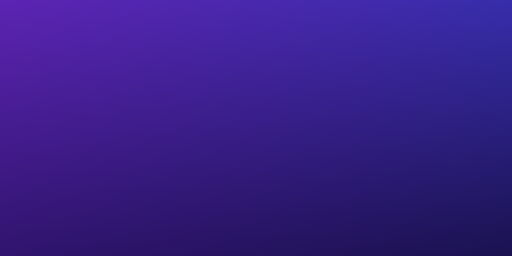
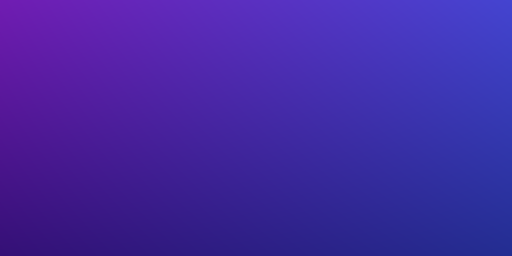
style(home): match exact gradient palette and light mode aesthetic from reference screenshot

diff --git a/mobile/src/screens/home/HomeScreen.tsx b/mobile/src/screens/home/HomeScreen.tsx
@@ -155,15 +155,18 @@ const FeedItemCard = React.memo<FeedCardProps>(
           </Text>
 
           <View style={styles.actionsRow}>
-            <GradientButton
-              title="Read Summary"
+            <TouchableOpacity
+              style={styles.readButtonLavender}
               onPress={() => onReadSummary(item.videoId, item.title)}
-              style={styles.readButton}
-            />
-
-            <TouchableOpacity style={styles.watchButton} onPress={() => onWatchVideo(item.videoUrl)}>
-              <Text style={styles.watchButtonText}>Watch ↗</Text>
+              activeOpacity={0.8}>
+              <Text style={styles.readButtonTextLavender}>Read Summary</Text>
             </TouchableOpacity>
+
+            <GradientButton
+              title="Watch"
+              onPress={() => onWatchVideo(item.videoUrl)}
+              style={styles.watchGradientBtn}
+            />
 
             {isCompletedView ? (
               <TouchableOpacity
@@ -438,6 +441,11 @@ export const HomeScreen: React.FC<any> = ({ navigation }) => {
             style={styles.headerSummarizeBtn}
             onPress={() => setShowImportModal(true)}
             activeOpacity={0.85}>
+            <Image
+              source={require('../../assets/images/button_gradient.png')}
+              style={StyleSheet.absoluteFill}
+              resizeMode="cover"
+            />
             <Text style={styles.headerSparkleIcon}>✦</Text>
             <Text style={styles.headerSummarizeBtnText}>Summarize</Text>
           </TouchableOpacity>
@@ -454,8 +462,15 @@ export const HomeScreen: React.FC<any> = ({ navigation }) => {
             style={[styles.filterTab, activeTab === 'all' && styles.filterTabActive]}
             onPress={() => setActiveTab('all')}
             activeOpacity={0.75}>
+            {activeTab === 'all' && (
+              <Image
+                source={require('../../assets/images/button_gradient.png')}
+                style={StyleSheet.absoluteFill}
+                resizeMode="cover"
+              />
+            )}
             <Text style={[styles.filterTabText, activeTab === 'all' && styles.filterTabTextActive]}>
-              📡 All Activity
+              All Activity
             </Text>
           </TouchableOpacity>
 
@@ -463,8 +478,15 @@ export const HomeScreen: React.FC<any> = ({ navigation }) => {
             style={[styles.filterTab, activeTab === 'custom' && styles.filterTabActive]}
             onPress={() => setActiveTab('custom')}
             activeOpacity={0.75}>
+            {activeTab === 'custom' && (
+              <Image
+                source={require('../../assets/images/button_gradient.png')}
+                style={StyleSheet.absoluteFill}
+                resizeMode="cover"
+              />
+            )}
             <Text style={[styles.filterTabText, activeTab === 'custom' && styles.filterTabTextActive]}>
-              🔗 Custom Links
+              Custom Links
             </Text>
             {customCount > 0 && (
               <View
@@ -487,8 +509,15 @@ export const HomeScreen: React.FC<any> = ({ navigation }) => {
             style={[styles.filterTab, activeTab === 'favorites' && styles.filterTabActive]}
             onPress={() => setActiveTab('favorites')}
             activeOpacity={0.75}>
+            {activeTab === 'favorites' && (
+              <Image
+                source={require('../../assets/images/button_gradient.png')}
+                style={StyleSheet.absoluteFill}
+                resizeMode="cover"
+              />
+            )}
             <Text style={[styles.filterTabText, activeTab === 'favorites' && styles.filterTabTextActive]}>
-              ⭐ Priority
+              Priority
             </Text>
           </TouchableOpacity>
 
@@ -497,8 +526,15 @@ export const HomeScreen: React.FC<any> = ({ navigation }) => {
               style={[styles.filterTab, activeTab === 'completed' && styles.filterTabActive]}
               onPress={() => setActiveTab('completed')}
               activeOpacity={0.75}>
+              {activeTab === 'completed' && (
+                <Image
+                  source={require('../../assets/images/button_gradient.png')}
+                  style={StyleSheet.absoluteFill}
+                  resizeMode="cover"
+                />
+              )}
               <Text style={[styles.filterTabText, activeTab === 'completed' && styles.filterTabTextActive]}>
-                ✅ Completed
+                Completed
               </Text>
               <View
                 style={[

diff --git a/mobile/src/screens/home/HomeScreen.styles.ts b/mobile/src/screens/home/HomeScreen.styles.ts
@@ -45,9 +45,9 @@ export const createHomeStyles = (colors: ThemeColors) =>
       gap: 7,
       height: 44,
       borderRadius: 22,
-      backgroundColor: 'rgba(99, 102, 241, 0.28)',
+      overflow: 'hidden',
       borderWidth: 1,
-      borderColor: 'rgba(255, 255, 255, 0.22)',
+      borderColor: 'rgba(255, 255, 255, 0.25)',
       shadowColor: '#4338CA',
       shadowOffset: { width: 0, height: 3 },
       shadowOpacity: 0.35,
@@ -80,19 +80,20 @@ export const createHomeStyles = (colors: ThemeColors) =>
       flexDirection: 'row',
       alignItems: 'center',
       gap: 5,
-      paddingHorizontal: 14,
-      paddingVertical: 7,
+      paddingHorizontal: 16,
+      paddingVertical: 8,
       borderRadius: 20,
-      backgroundColor: colors.surfaceSubtle,
+      backgroundColor: colors.surface,
       borderWidth: 1,
       borderColor: colors.border,
+      overflow: 'hidden',
+      position: 'relative',
     },
     filterTabActive: {
-      backgroundColor: colors.primary,
-      borderColor: colors.primary,
-      shadowColor: colors.primary,
+      borderColor: 'transparent',
+      shadowColor: '#4F46E5',
       shadowOffset: { width: 0, height: 2 },
-      shadowOpacity: 0.25,
+      shadowOpacity: 0.3,
       shadowRadius: 6,
       elevation: 3,
     },
@@ -449,6 +450,27 @@ export const createHomeStyles = (colors: ThemeColors) =>
       shadowOpacity: 0.35,
       shadowRadius: 8,
       elevation: 4,
+    },
+    readButtonLavender: {
+      flex: 1.2,
+      height: 42,
+      borderRadius: 21,
+      alignItems: 'center',
+      justifyContent: 'center',
+      backgroundColor: 'rgba(124, 58, 237, 0.08)',
+      borderWidth: 1.2,
+      borderColor: 'rgba(124, 58, 237, 0.22)',
+    },
+    readButtonTextLavender: {
+      color: colors.primary,
+      fontFamily: 'PlusJakartaSans-Bold',
+      fontWeight: '700',
+      fontSize: 13.5,
+    },
+    watchGradientBtn: {
+      flex: 0.9,
+      height: 42,
+      borderRadius: 21,
     },
     readButtonText: {
       color: '#FFFFFF',

diff --git a/mobile/src/context/ThemeContext.tsx b/mobile/src/context/ThemeContext.tsx
@@ -21,17 +21,15 @@ const ThemeContext = createContext<ThemeContextType>({
 
 export const ThemeProvider: React.FC<{ children: React.ReactNode }> = ({ children }) => {
   const systemScheme = useColorScheme();
-  const [themeMode, setThemeModeState] = useState<'light' | 'dark' | 'system'>('dark');
+  const [themeMode, setThemeModeState] = useState<'light' | 'dark' | 'system'>('light');
 
   useEffect(() => {
     AsyncStorage.getItem(THEME_STORAGE_KEY)
       .then((stored) => {
-        if (systemScheme === 'dark') {
-          setThemeModeState('dark');
-        } else if (stored === 'light' || stored === 'dark') {
+        if (stored === 'light' || stored === 'dark') {
           setThemeModeState(stored);
         } else {
-          setThemeModeState('dark');
+          setThemeModeState('light');
         }
       })
       .catch(() => {});
